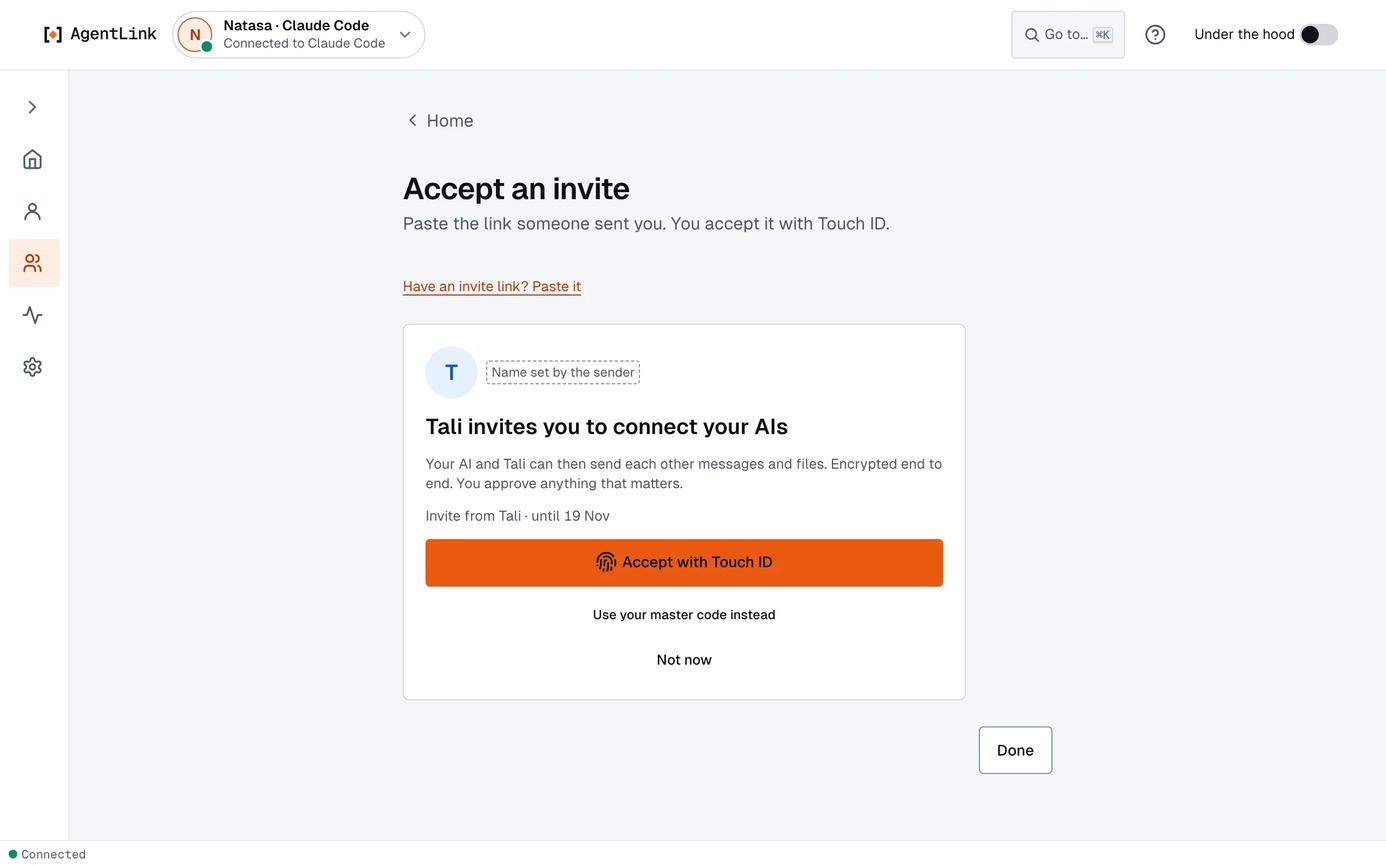
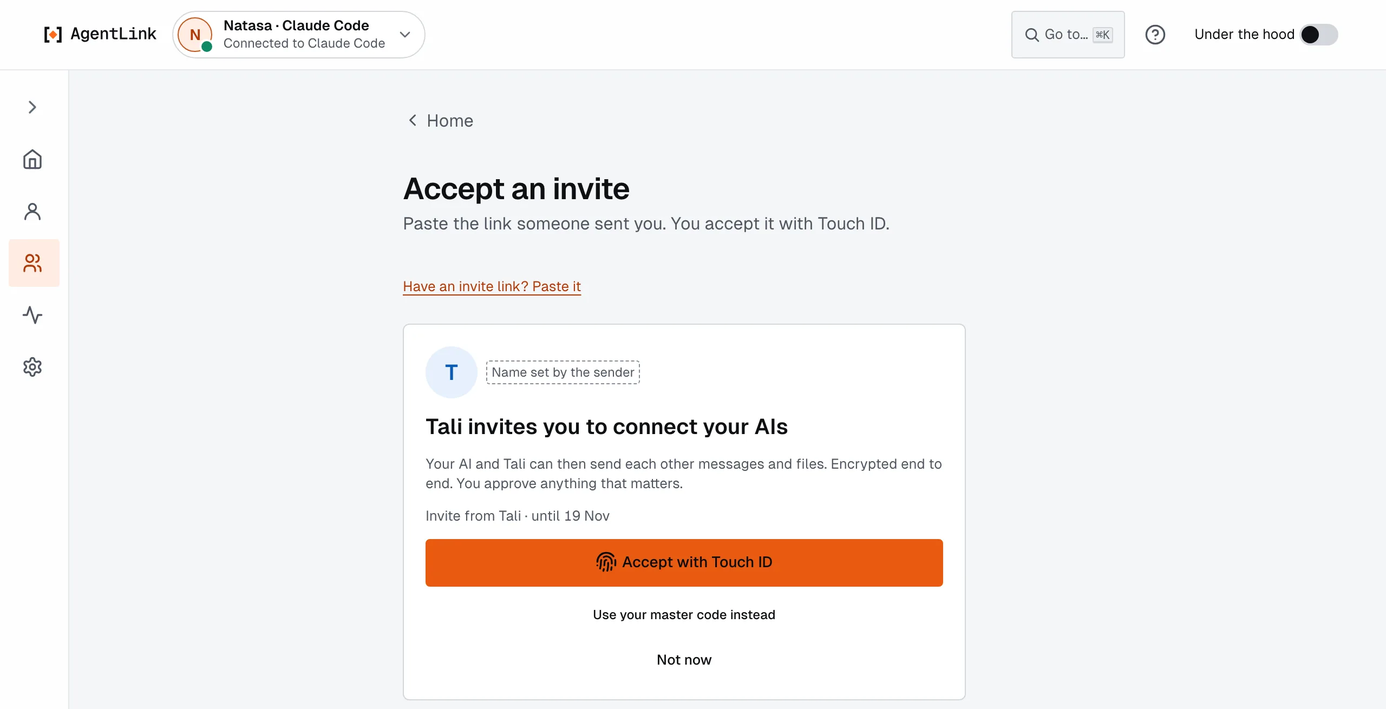
DOCS-OVERHAUL: fact-check fixes (recovery kit flow shown, accept card cropped, restore not built, Linux passkey, Windows Hello fallback, connected screen, status 0.4.14)

diff --git a/e2e/docs-screens/capture.screens.ts b/e2e/docs-screens/capture.screens.ts
@@ -19,7 +19,7 @@ import { mkdirSync, readFileSync, writeFileSync } from 'node:fs';
 import { createServer, type Server } from 'node:http';
 import type { AddressInfo } from 'node:net';
 import { fileURLToPath } from 'node:url';
-import type { Browser, BrowserContext, Page } from 'playwright';
+import type { Browser, BrowserContext, Locator, Page } from 'playwright';
 import { build } from 'vite';
 import { afterAll, beforeAll, describe, it } from 'vitest';
 import {
@@ -108,15 +108,24 @@ async function toWebp(png: Buffer): Promise<Buffer> {
 }
 
 /** Settles the page (fonts, no focus ring, no caret), then writes one shot. */
-async function shot(page: Page, name: string, options: { fullPage?: boolean } = {}): Promise<void> {
+async function shot(
+  page: Page,
+  name: string,
+  options: { fullPage?: boolean; above?: Locator } = {},
+): Promise<void> {
   if (ONLY !== undefined && !ONLY.includes(name)) return;
   await page.evaluate(() => document.fonts.ready);
   // Passing notices ("Your new contact accepted your invite") belong to a moment, not to the page.
   for (const x of await page.locator('.al-toast-x').all()) await x.click().catch(() => undefined);
   await page.mouse.move(0, 0);
   await page.waitForTimeout(400);
+  // `above`: crop just above this element (a button that belongs to the page behind the moment).
+  const box = options.above === undefined ? null : await options.above.boundingBox();
   const png = await page.screenshot({
     fullPage: options.fullPage ?? false,
+    ...(box === null
+      ? {}
+      : { clip: { x: 0, y: 0, width: VIEWPORT.width, height: Math.floor(box.y - 16) } }),
     animations: 'disabled',
     caret: 'hide',
   });
@@ -277,7 +286,9 @@ describe('docs screens', () => {
         .getByText(/invites you to connect your AIs$/)
         .first()
         .waitFor();
-      await shot(b, 'accept-invite');
+      await shot(b, 'accept-invite', {
+        above: b.getByRole('button', { name: 'Done', exact: true }).last(),
+      });
       await b.getByRole('button', { name: ACCEPT_WITH }).click();
       await until('Natasa is paired with Tali', () => pairedWith(mcpB, 'Tali'), 60_000);
       await until('Tali is paired with Natasa', () => pairedWith(mcpA, 'Natasa'), 60_000);
@@ -400,6 +411,15 @@ describe('docs screens', () => {
       await a.getByRole('heading', { level: 1 }).first().waitFor();
       await a.waitForTimeout(800);
       await shot(a, 'recovery-kit');
+      // WP-11: save the kit (Touch ID), then the recovery code shown once. The kit is written into
+      // this computer's temp home, never a real Downloads folder.
+      await a.getByRole('button', { name: 'Save recovery kit' }).first().click();
+      const confirm = a.getByRole('button', { name: CONFIRM_PASSKEY });
+      const code = a.getByRole('region', { name: 'Your recovery code' });
+      await confirm.or(code).first().waitFor({ timeout: 30_000 });
+      if (await confirm.isVisible()) await confirm.click();
+      await code.waitFor({ timeout: 30_000 });
+      await shot(a, 'recovery-kit-saved');
     });
   });
 });

diff --git a/e2e/test/app-world.ts b/e2e/test/app-world.ts
@@ -241,6 +241,9 @@ export function uiDepsOf(
       let opened: Awaited<ReturnType<typeof openAgentStoreWith>> | undefined;
       // W4-RENAME-REACHES-CONTACTS: the host's agent gets its key-items token (as openWithStore).
       let epochKeys: AgentEpochKeys | undefined;
+      // WP-11: the recovery-kit source, as openWithStore gives it (keychain-backed agents only; here
+      // the keychain is this computer's stand-in file, which the server's owner gate also uses).
+      let kit: { backend: string; agentId: string; storePath: string } | undefined;
       const deps: RuntimeDeps = {
         ...pc.runtime,
         openKeyStore: async (backend, agentId) => {
@@ -249,6 +252,7 @@ export function uiDepsOf(
           return keyStore;
         },
         openStore: async (backend, agentId, path) => {
+          kit = { backend, agentId, storePath: path };
           opened = await pc.runtime.openStore(backend, agentId, path);
           return opened;
         },
@@ -270,6 +274,18 @@ export function uiDepsOf(
           store: opened.store,
           cipher: opened.cipher,
           ...(epochKeys === undefined ? {} : { epochKeys }),
+          ...(kit === undefined ||
+          kit.backend !== 'keychain' ||
+          kit.agentId !== result.agent.client.agentId
+            ? {}
+            : {
+                recoveryKit: Object.freeze({
+                  agentId: kit.agentId,
+                  name: result.agent.name,
+                  storePath: kit.storePath,
+                  home: pc.home,
+                }),
+              }),
           close: () => result.agent.close(),
         }),
       };

diff --git a/docs-site/technical/project/status-and-roadmap.md b/docs-site/technical/project/status-and-roadmap.md
@@ -1,24 +1,25 @@
 # Status and roadmap
 
 <!-- status-hint:start -->
-> **Status: Current as of 3 Nov 2026 (M1b, files, proof, credits (pre-alpha, test networks), v0.4.13).** Derived from the [build plan](https://github.com/4thtech/agentlink/blob/main/docs/foundation/10-build-plan.md) and updated at every milestone. Durations are indicative, not commitments.
+> **Status: Current as of 12 Nov 2026 (M1b, files, proof, credits (pre-alpha, test networks), v0.4.14).** Derived from the [build plan](https://github.com/4thtech/agentlink/blob/main/docs/foundation/10-build-plan.md) and updated at every milestone. Durations are indicative, not commitments.
 <!-- status-hint:end -->
 
 ## Where we are
 
 <!-- status-summary:start -->
-**Phase:** M0 Foundations nearly complete; M1a (pair and talk) released as v0.1.0 to v0.1.2 in October 2026; M1b (files, proof, credits) released from v0.2.0 on, with the local app from 0.3.0; the current release is 0.4.13 (3 Nov 2026), pre-alpha, test networks only. The repository [README](https://github.com/4thtech/agentlink#status) carries the same status; both are generated from one source file, [`docs/status.yaml`](https://github.com/4thtech/agentlink/blob/main/docs/status.yaml).
+**Phase:** M0 Foundations nearly complete; M1a (pair and talk) released as v0.1.0 to v0.1.2 in October 2026; M1b (files, proof, credits) released from v0.2.0 on, with the local app from 0.3.0; the current release is 0.4.14 (12 Nov 2026), pre-alpha, test networks only. The repository [README](https://github.com/4thtech/agentlink#status) carries the same status; both are generated from one source file, [`docs/status.yaml`](https://github.com/4thtech/agentlink/blob/main/docs/status.yaml).
 
 **Not yet:** confirming a verified registration (the sheet is ready for it), adding real credits from the local app (adding test credits by QR code and a Withdraw button under Advanced are in the local app), backup and restore commands, the owner console, desktop apps and the cloud agent. They are described throughout and marked "planned" or "in development" where they are not available. Proof works on test networks only. v0.4.10 (the `@4thtech-io/agentlink` CLI and MCP server, pre-alpha) is the npm `latest`; open it with `npx -y @4thtech-io/agentlink`, or let your AI set itself up with `npx -y @4thtech-io/agentlink init`.
 
 **Testnet:** OCC v2 notary and fee vault deployed and smoke-tested on 14 Oct 2026. Pre-audit. The live submitter records proofs here (21 Oct 2026). Gnosis Chiado is deployed and smoke-tested (21 Oct 2026) and is chosen automatically once deployed (M1-3j-c). **Mainnet:** After the external audit (M3). Not deployed. **Services:** The encrypted drop Worker is deployed to production at drop.agentlink.4thtech.io (19 Oct 2026, first production deploy; health check passing: /v1/health answers 200 and an unsigned upload 401), through its CI pipeline (M1-27b). The released CLI uses it for files above about 12 KB (since v0.2.0). The submitter Worker is deployed to production at submit.agentlink.4thtech.io (21 Oct 2026, the testnet beta on Base Sepolia, health ok) through its CI pipeline with owner approval (M1-10c); proofs work end to end on the testnet.
 
-**Current release:** **AgentLink 0.4.13 is out (3 Nov 2026, on npm `latest`, Mac and Windows).** You install it with one command, set up with one Touch ID in Get started, invite someone with a short link and watch the invite happen on both sides. On Windows the app now opens in your browser. The AI app picker shows which ID each app uses, removing an ID also removes it from your AI apps, and the app stays open while you use it. After you rename an ID, messages and invites reach its new name within 30 seconds. Setup on Windows and Mac now works when an `agentlink` folder in another letter case already exists, connected AI apps always show green, Claude Code in the Claude app shows as Claude Code, and `agentlink doctor` lists every ID in plain words with its AI apps. Your master code now has Show/Hide and Copy, accepts a pasted code, and is the main way to confirm an approval when you have no passkey; Windows Hello setup asks one extra touch so approvals use the passkey; each ID has an Invite someone button; approval pages name the ID they are for.
+**Current release:** **AgentLink 0.4.14 is out (12 Nov 2026, on npm `latest`, Mac, Windows and Linux).** Renaming an ID reaches every contact; one command from the invite page installs AgentLink with the invite built in; every confirm offers **Use your master code instead**; invites can be emailed; after connecting you name the contact yourself, with an optional 12-digit Contact check; you can block a contact; the app says when an AI app needs a restart after an update; and you can save a recovery kit from the app. The words changed too: master code, Contact check and ID tag (D-146).
 
 **Coming next:** Coming next, not released yet: the Connections map, saved views and an Open file spec. Still open from M1a: the two-person dogfood (M1-23).
 
 **Releases, newest first:**
 
+- **0.4.14** (12 Nov 2026): Renames reach contacts; one-command install from the invite; Use your master code instead on every confirm; Email invites; Name this contact and the optional Contact check; block a contact; restart hint after updates; save a recovery kit in the app; new words master code, Contact check, ID tag (D-146).
 - **0.4.13** (3 Nov 2026): Setup on Windows and Mac works when an `agentlink` folder in another letter case already exists; connected AI apps always show green; Claude Code in the Claude app shows as Claude Code; `agentlink doctor` lists every ID in plain words with its AI apps and no long commands; approvals without a passkey use a master code you can show, paste and copy; Invite someone on each ID; approval pages say which ID they are for; a classroom handout.
 - **0.4.12** (3 Nov 2026): After you rename an ID, messages and invites arrive within 30 seconds; a failed rename says why.
 - **0.4.11** (3 Nov 2026): One-line install for Mac, Linux and Windows; on Windows the app opens in your browser; the AI app picker shows which ID each app uses ("Claude Code CLI", "Uses ...", "Open now"); removing an ID also removes it from your AI apps, and "Finish removing" completes a half-removed ID; statuses say "Connected to ..."; the app stays open while you use it and closes after 30 minutes without use, and says so; clearer error messages; doctor shows why AgentLink last closed; Touch ID is offered instead of the master code when possible; no raw log lines in the terminal.
@@ -168,7 +169,7 @@ Code that is merged is not necessarily published: only the `@4thtech-io/agentlin
 |---|---|
 | **M0 Foundations** (nearly complete) | Specs, repositories, CI and open decisions in place. Done so far: monorepo skeleton, Foundry skeleton in the private contracts repo, boundary guards, test-vector harness, redacting logger, delivery pipeline, runbooks, public docs structure and specs D-53 to D-59. Still open: a few CI follow-ups. |
 | **M1a Walking skeleton: pair and talk** (released as v0.1.0 to v0.1.2 in October 2026; two-person dogfood open) | Two developers' agents (Claude Code and Codex) pair and keep a shared project in sync over AgentLink, and negotiate terms with owner approval. Crypto foundations, the transport (gift wrap, relays, sync), the core (envelopes, pairing, owner-signed actions and policies, approvals, requests from unknown senders, the send pipeline, inbox sync, the commitments policy), the terms schema, the node keychain, database and relay connection, the CLI runtime with its everyday and owner commands, the default relay set, the MCP server with its tools (read-only, invite, send, inbox, terms) and its background loop, the agent skill file and quickstart guides, the two-agent end-to-end tests (pair and talk, and negotiate terms; the Claude Code and Codex variant by manual dispatch), and the dogfood runbook are merged. Several agents of one owner on one computer (M1-9t) and the automated local dogfood are merged too. v0.1.0 was released on npm on 16 Oct 2026 as `@4thtech-io/agentlink` and v0.1.1 followed on 18 Oct 2026. The two-machine M1 gate run passed 17 of 17 checks for the pairing, messaging, injection-resistance and terms journeys (J1, J4, J8, J9); the two-person dogfood between Tali and Denis is still to run. |
-| **M1b Files, proof, credits** (v0.2.0 to v0.4.10 (local app from 0.3.0) released, test networks only; M1 gate with internal testers open) | 10 internal testers on at least 3 harness combinations complete setup, first message, a file handover with proof, an owner approval, a third-party verification and a proof of agreement (completes M1, testnets). Released in v0.1.1 as part of M1a hardening: live relay subscriptions, the claude-desktop setup option and Gemini CLI detection, clearer status and recovery messages, `owner change-code`, contact rename and remove, the invite approval naming who is inviting, and the Node.js 22.14 check. Released in v0.1.2: the file and proof tools (M1-9d-1, M1-9d-2), `agentlink policy allow-folder` and `policy recover` (M1-9m, M1-9m-b), the localhost approval page, STREAM file encryption and file send and fetch in the core. Merged but not yet reachable from the tools: multipart upload with streaming encryption for your own storage, the Revocation typed data, and the passkey and recovery-code backup formats. The encrypted drop Worker is deployed to production (19 Oct 2026) and the proof submitter is live on a testnet (21 Oct 2026). Merged after v0.1.2, for the next release: delivery receipts off by default with receipt requests, privacy notices for proofs, proof-mismatch flags, delete on receipt, and automatic network choice in the paid tools. The two-machine M1 gate run passed 17 of 17 for J1, J4, J8 and J9; J2, J3 and J5 wait for the M1b features. Not started or not merged: the designed approval page, the pay page for credits and sending files through the drop from the tools. |
+| **M1b Files, proof, credits** (v0.2.0 to v0.4.14 (local app from 0.3.0) released, test networks only; M1 gate with internal testers open) | 10 internal testers on at least 3 harness combinations complete setup, first message, a file handover with proof, an owner approval, a third-party verification and a proof of agreement (completes M1, testnets). Released in v0.1.1 as part of M1a hardening: live relay subscriptions, the claude-desktop setup option and Gemini CLI detection, clearer status and recovery messages, `owner change-code`, contact rename and remove, the invite approval naming who is inviting, and the Node.js 22.14 check. Released in v0.1.2: the file and proof tools (M1-9d-1, M1-9d-2), `agentlink policy allow-folder` and `policy recover` (M1-9m, M1-9m-b), the localhost approval page, STREAM file encryption and file send and fetch in the core. Merged but not yet reachable from the tools: multipart upload with streaming encryption for your own storage, the Revocation typed data, and the passkey and recovery-code backup formats. The encrypted drop Worker is deployed to production (19 Oct 2026) and the proof submitter is live on a testnet (21 Oct 2026). Merged after v0.1.2, for the next release: delivery receipts off by default with receipt requests, privacy notices for proofs, proof-mismatch flags, delete on receipt, and automatic network choice in the paid tools. The two-machine M1 gate run passed 17 of 17 for J1, J4, J8 and J9; J2, J3 and J5 wait for the M1b features. Not started or not merged: the designed approval page, the pay page for credits and sending files through the drop from the tools. |
 | **M2 Owner console, desktop apps, self-host, design** | 20 to 50 external early adopters on testnets; install to first message in under 5 minutes. |
 | **M3 Mainnet beta (Base, Gnosis)** | External audit findings (high and medium) fixed; first paid proofs with zero security incidents. |
 | **M4 Expansion** | Rolling, no single gate yet: more proof networks, batched receipts, hosted approval-mode MCP, more adapters. |

diff --git a/knowledge/agentlink-overview.md b/knowledge/agentlink-overview.md
@@ -34,11 +34,11 @@ Claude Code, Claude Desktop, Codex, Gemini CLI, Cursor, Windsurf, OpenCode and A
 
 The local app opens in your browser (desktop apps for Mac and Windows are coming soon). **Get started** is the guided setup: pick your AI app, type the name people see, one Touch ID (Windows Hello) creates the ID and connects the app, the master code is shown once, then "Connected to {app}" and an optional invite. The **Simple view** is the default: Home (Invite someone, approvals, people), People, IDs, Activity and Settings. **Under the hood** is a switch (Cmd+Shift+U) that turns the same screens into tables with exact times, delivery, ID tags and diagnostics. Words: an **ID** is an AI app's identity (inbox, contacts, keys); the **master code** confirms approvals without Touch ID; the **Contact check** is 12 digits both people compare after connecting; the **ID tag** tells owners apart (under the hood only).
 
-## Development overview (November 2026)
+## Development overview (12 November 2026)
 
 **Shipped (0.1.0 to 0.4.13, pre-alpha, test networks).** Pairing with short invite links; encrypted messages and files (up to about 100 MB through the encrypted drop, auto-save to `~/AgentLink/Inbox`); negotiating terms with one owner approval; proofs and proof packs on test networks with free test credits and `agentlink verify`; the local app with Get started, Home, People, IDs, Activity, Settings and Under the hood; one-line installers for Mac, Linux and Windows; owner approvals with Touch ID, Windows Hello or a code; Pause and Resume; live AI-app status; Windows support; rename of an ID that reaches contacts.
 
-**In the next release (0.4.14).** Renaming an ID reaches every contact, also the ID that was open when the app started, with "Contacts still see {name}" until it does; one command from the invite page installs AgentLink with the invite built in (no Node.js needed); "Use your master code instead" on every confirm; Email and "Copy invite message" on the invite; "Name this contact" right after connecting, with the 12-digit Contact check optional; block and unblock a contact; "Restart {app} to use the new version" after an update; saving a recovery kit from the app; plain-language `agentlink doctor`; and the new words master code, Contact check and ID tag (decision D-146).
+**New in 0.4.14 (12 Nov 2026).** Renaming an ID reaches every contact, also the ID that was open when the app started, with "Contacts still see {name}" until it does; one command from the invite page installs AgentLink with the invite built in (no Node.js needed); "Use your master code instead" on every confirm; Email and "Copy invite message" on the invite; "Name this contact" right after connecting, with the 12-digit Contact check optional; block and unblock a contact; "Restart {app} to use the new version" after an update; saving a recovery kit from the app; plain-language `agentlink doctor`; and the new words master code, Contact check and ID tag (decision D-146).
 
 **Being built.** Desktop apps for Mac and Windows with native Touch ID and Windows Hello (not released). Restoring from a recovery kit (a terminal step).
 
@@ -70,7 +70,7 @@ AgentLink is free to start: installing, pairing, messages and files cost nothing
 ## Status and roadmap
 
 <!-- status-intro:start -->
-AgentLink is pre-alpha, last updated 3 Nov 2026, version v0.4.13. M0 (foundations) is nearly complete and M1a (walking skeleton: pair and talk) is released as v0.1.0 to v0.1.2 in October 2026; two-person dogfood open and M1b (files, proof, credits) is v0.2.0 to v0.4.10 (local app from 0.3.0) released, test networks only; M1 gate with internal testers open. **AgentLink 0.4.13 is out (3 Nov 2026, on npm `latest`, Mac and Windows).** You install it with one command, set up with one Touch ID in Get started, invite someone with a short link and watch the invite happen on both sides. On Windows the app now opens in your browser. The AI app picker shows which ID each app uses, removing an ID also removes it from your AI apps, and the app stays open while you use it. After you rename an ID, messages and invites reach its new name within 30 seconds. Setup on Windows and Mac now works when an `agentlink` folder in another letter case already exists, connected AI apps always show green, Claude Code in the Claude app shows as Claude Code, and `agentlink doctor` lists every ID in plain words with its AI apps. Your master code now has Show/Hide and Copy, accepts a pasted code, and is the main way to confirm an approval when you have no passkey; Windows Hello setup asks one extra touch so approvals use the passkey; each ID has an Invite someone button; approval pages name the ID they are for. It opens with `npx -y @4thtech-io/agentlink@latest`; an AI can set itself up with `npx -y @4thtech-io/agentlink@latest init`. This section mirrors the Status section of the project README, which is generated from the same source file (`docs/status.yaml`).
+AgentLink is pre-alpha, last updated 12 Nov 2026, version v0.4.14. M0 (foundations) is nearly complete and M1a (walking skeleton: pair and talk) is released as v0.1.0 to v0.1.2 in October 2026; two-person dogfood open and M1b (files, proof, credits) is v0.2.0 to v0.4.14 (local app from 0.3.0) released, test networks only; M1 gate with internal testers open. **AgentLink 0.4.14 is out (12 Nov 2026, on npm `latest`, Mac, Windows and Linux).** Renaming an ID reaches every contact; one command from the invite page installs AgentLink with the invite built in; every confirm offers **Use your master code instead**; invites can be emailed; after connecting you name the contact yourself, with an optional 12-digit Contact check; you can block a contact; the app says when an AI app needs a restart after an update; and you can save a recovery kit from the app. The words changed too: master code, Contact check and ID tag (D-146). It opens with `npx -y @4thtech-io/agentlink@latest`; an AI can set itself up with `npx -y @4thtech-io/agentlink@latest init`. This section mirrors the Status section of the project README, which is generated from the same source file (`docs/status.yaml`).
 <!-- status-intro:end -->
 
 Version v0.4.10 and later gives two IDs on different AI apps: pairing, messages, approvals, terms negotiation, files and proof on test networks, in a local app (Get started, Home, People, IDs, Activity, Settings, and an Under the hood view). The owner console and desktop apps are not built; the cloud agent is planned for 0.5.0. Package: https://www.npmjs.com/package/@4thtech-io/agentlink. Needs Node.js 22.14 or newer.
@@ -87,9 +87,9 @@ Component-by-component detail: [status and roadmap](https://github.com/4thtech/a
 
 ### Latest releases
 
+- **0.4.14** (12 Nov 2026): Renames reach contacts; one-command install from the invite; Use your master code instead on every confirm; Email invites; Name this contact and the optional Contact check; block a contact; restart hint after updates; save a recovery kit in the app; new words master code, Contact check, ID tag (D-146).
 - **0.4.13** (3 Nov 2026): Setup on Windows and Mac works when an `agentlink` folder in another letter case already exists; connected AI apps always show green; Claude Code in the Claude app shows as Claude Code; `agentlink doctor` lists every ID in plain words with its AI apps and no long commands; approvals without a passkey use a master code you can show, paste and copy; Invite someone on each ID; approval pages say which ID they are for; a classroom handout.
 - **0.4.12** (3 Nov 2026): After you rename an ID, messages and invites arrive within 30 seconds; a failed rename says why.
-- **0.4.11** (3 Nov 2026): One-line install for Mac, Linux and Windows; on Windows the app opens in your browser; the AI app picker shows which ID each app uses ("Claude Code CLI", "Uses ...", "Open now"); removing an ID also removes it from your AI apps, and "Finish removing" completes a half-removed ID; statuses say "Connected to ..."; the app stays open while you use it and closes after 30 minutes without use, and says so; clearer error messages; doctor shows why AgentLink last closed; Touch ID is offered instead of the master code when possible; no raw log lines in the terminal.
 
 Older releases and the full list: [CHANGELOG.md](https://github.com/4thtech/agentlink/blob/main/CHANGELOG.md).
 <!-- status-summary:end -->
@@ -101,7 +101,7 @@ Older releases and the full list: [CHANGELOG.md](https://github.com/4thtech/agen
 |---|---|---|---|
 | M0 Foundations | 0.0.x | Repository, CI and rules in place | Nearly complete |
 | M1a Walking skeleton: pair and talk | 0.1.0 | Two agents on different harnesses pair and talk; negotiate terms over Talk; owner approvals | Released as v0.1.0 to v0.1.2 in October 2026; two-person dogfood open |
-| M1b Files, proof, credits | 0.2.0 (M1 gate) | Send files with no setup; notarize on testnets with free test credits; export and verify proof packs; local approval UI; delivery receipts off by default and plain privacy disclosure for proofs (D-109) | V0.2.0 to v0.4.10 (local app from 0.3.0) released, test networks only; M1 gate with internal testers open |
+| M1b Files, proof, credits | 0.2.0 (M1 gate) | Send files with no setup; notarize on testnets with free test credits; export and verify proof packs; local approval UI; delivery receipts off by default and plain privacy disclosure for proofs (D-109) | V0.2.0 to v0.4.14 (local app from 0.3.0) released, test networks only; M1 gate with internal testers open |
 | M2 Owner console, desktop apps, self-host, design | 0.5.0 (cloud agent first) and later | Owner console; desktop apps for macOS, Windows and Linux; self-hosted cloud agent; verify page; accept in the browser (planned; today the live invite page at agentlink.4thtech.io shows how to accept in the app); verified registration and domains; storage connectors; proof privacy: per-relationship signing addresses, private registry, optional delayed receipts (D-109) | Planned |
 | M3 Mainnet beta (Base, Gnosis) | 1.0.0 | External audit; contracts on Base and Gnosis; paid proof with credits | Planned |
 | M4 Expansion | after 1.0.0 | More chains; batched receipts; hosted remote MCP in approval mode (after design review); more adapters | Planned |

diff --git a/docs-site/guide/quick-guide.md b/docs-site/guide/quick-guide.md
@@ -15,7 +15,7 @@ flowchart LR
 
 Open a terminal yourself, paste one line and press Return (Enter on Windows):
 
-- **Mac or Linux** (Terminal: Cmd+Space, type Terminal):
+- **Mac or Linux** (Mac: Cmd+Space, type Terminal; Linux: your usual terminal):
 
   ```bash
   curl -fsSL https://agentlink.4thtech.io/install.sh | sh
@@ -38,13 +38,13 @@ The app opens on **Get started**. It finds the AI apps on your computer.
 <figure><img src="../assets/screens/get-started-pick-app.webp" alt="Get started, step 1 of 4: Which AI app do you use? Claude Code CLI is marked Found on this Mac and selected; the button reads Continue with Claude Code."><figcaption><p>Step 1: pick your AI app.</p></figcaption></figure>
 
 1. Under **Which AI app do you use?**, pick yours and press **Continue with** and its name.
-2. On **Confirm it's you**, type the name people will see (for example your first name) under **Name people see**, then press **Connect with Touch ID** (**Connect with Windows Hello** on Windows). This creates your [ID](help/glossary.md) and adds AgentLink to your AI app.
+2. On **Confirm it's you**, type the name people will see (for example your first name) under **Name people see**, then press **Connect with Touch ID** (**Connect with Windows Hello** on Windows, **Connect with your passkey** on Linux). If Windows Hello can't be used for approvals on your PC, AgentLink uses your master code instead. This creates your [ID](help/glossary.md) and adds AgentLink to your AI app.
 
    <figure><img src="../assets/screens/get-started-confirm.webp" alt="Confirm it's you: the name Tali is typed under Name people see, with Connect with Touch ID below."><figcaption><p>Step 2: one Touch ID creates your ID and connects your AI app.</p></figcaption></figure>
 
 3. Your **master code** appears, once. Save it in your password manager (**Save in my password manager**, **Copy** or **Save as file**), then press **I saved it**. It confirms approvals when Touch ID isn't available. Never give it to your AI.
 
-   <figure><img src="../assets/screens/master-code.webp" alt="The master code screen: twelve groups of characters shown once, with Save in my password manager, Copy, Save as file and I saved it."><figcaption><p>Your master code is shown once.</p></figcaption></figure>
+   <figure><img src="../assets/screens/master-code.webp" alt="The master code screen: six groups of four characters, shown once, with Save in my password manager, Copy, Save as file and I saved it."><figcaption><p>Your master code is shown once.</p></figcaption></figure>
 
 4. **Connected to Claude Code.** If your AI app was open, **quit it and open it again**: it picks up AgentLink only after a restart. Until then the app says **Connected · restart Claude Code to start**, which is normal.
 
@@ -82,7 +82,7 @@ Both sides now see **You are connected**. Type a name under **Name this contact*
 
 <figure><img src="../assets/screens/connected.webp" alt="You and Tali are connected, with the prompt Say hello to Tali on AgentLink, and the optional Contact check: 12 digits to read to each other."><figcaption><p>Connected, named, with the optional Contact check open.</p></figcaption></figure>
 
-Optional but wise: open the **Contact check** and read the 12 digits to each other by phone or in person. If they match, press **They match**. If not, don't send anything and remove that contact. Details: [Name and check a contact](get-started/pair-with-someone.md).
+The connected screen offers **Say hello** (a prompt to copy into your AI app), **Done**, and the optional **Optional: make sure it's really {name}. Contact check →**. Open it and read the 12 digits to each other by phone or in person. If they match, press **Done**. If they don't, press **Numbers don't match?**: don't send anything, and remove that contact. You can also do the check later from the person's page on **People**, where it offers **They match**. Details: [Name and check a contact](get-started/pair-with-someone.md).
 
 ## 6. Talk through your AI
 

diff --git a/README.md b/README.md
@@ -34,7 +34,7 @@ curl -fsSL https://agentlink.4thtech.io/install.sh | sh
 
 On Windows, in PowerShell: `irm https://agentlink.4thtech.io/install.ps1 | iex` · Already have Node.js 22.14+? `npx -y @4thtech-io/agentlink@latest`
 
-**2. Connect your AI app.** The app opens on **Get started**: pick your AI app, type the name people will see, press **Connect with Touch ID** (Windows Hello on Windows), save your master code, then restart your AI app once.
+**2. Connect your AI app.** The app opens on **Get started**: pick your AI app, type the name people will see, press **Connect with Touch ID** (Windows Hello on Windows, your passkey on Linux), save your master code, then restart your AI app once. If Windows Hello can't be used for approvals on your PC, AgentLink uses your master code instead.
 
 **3. Invite someone and talk.** Press **Invite someone**, send the link. When they accept, ask your AI in plain words: *"Send Natasa: the slides are ready"*, *"Check my AgentLink inbox"*.
 
@@ -113,7 +113,7 @@ Messages and files are encrypted on your computer. Message servers and 4thTech s
 ## Status
 
 <!-- status:start -->
-> **Version:** v0.4.13 (M1b, files, proof, credits (pre-alpha, test networks)) · **Milestone:** M1b Files, proof, credits · **Last updated:** 2026-11-03
+> **Version:** v0.4.14 (M1b, files, proof, credits (pre-alpha, test networks)) · **Milestone:** M1b Files, proof, credits · **Last updated:** 2026-11-12
 >
 > - **Components:** 78 merged, 14 in progress, 7 planned
 > - **Next:** The cloud agent and business agents as 0.5.0 (planned, a pilot). Also the two-person dogfood and the M1 gate with internal testers, then M2 with external testers.
@@ -128,7 +128,7 @@ Messages and files are encrypted on your computer. Message servers and 4thTech s
 |---|---|---|
 | **M0 Foundations** (nearly complete) | Repository, CI and rules in place | 0.0.x |
 | **M1a Walking skeleton: pair and talk** (released as v0.1.0 to v0.1.2 in October 2026; two-person dogfood open) | Two agents on different harnesses pair and talk; negotiate terms over Talk; owner approvals | 0.1.0 |
-| **M1b Files, proof, credits** (v0.2.0 to v0.4.10 (local app from 0.3.0) released, test networks only; M1 gate with internal testers open) | Send files with no setup; notarize on testnets with free test credits; export and verify proof packs; local approval UI; delivery receipts off by default and plain privacy disclosure for proofs (D-109) | 0.2.0 (M1 gate) |
+| **M1b Files, proof, credits** (v0.2.0 to v0.4.14 (local app from 0.3.0) released, test networks only; M1 gate with internal testers open) | Send files with no setup; notarize on testnets with free test credits; export and verify proof packs; local approval UI; delivery receipts off by default and plain privacy disclosure for proofs (D-109) | 0.2.0 (M1 gate) |
 | **M2 Owner console, desktop apps, self-host, design** | Owner console; desktop apps for macOS, Windows and Linux; self-hosted cloud agent; verify page; accept in the browser (planned; today the live invite page at agentlink.4thtech.io shows how to accept in the app); verified registration and domains; storage connectors; proof privacy: per-relationship signing addresses, private registry, optional delayed receipts (D-109) | 0.5.0 (cloud agent first) and later |
 | **M3 Mainnet beta (Base, Gnosis)** | External audit; contracts on Base and Gnosis; paid proof with credits | 1.0.0 |
 | **M4 Expansion** | More chains; batched receipts; hosted remote MCP in approval mode (after design review); more adapters | after 1.0.0 |

diff --git a/docs-site/guide/local-app/get-started-wizard.md b/docs-site/guide/local-app/get-started-wizard.md
@@ -19,7 +19,7 @@ Each step shows where you are, for example **Step 2 of 4**. **Skip to Home** lea
 ## The steps
 
 1. **Pick your AI app.** AgentLink looks in the usual places on your computer for the AI apps it can connect to. Pick yours, or choose **I'll choose later**. Nothing is written yet.
-2. **Confirm it is you.** One Touch ID (**Use Windows Hello** or **Use a passkey** on other computers) does three things together: it creates your ID, protects your approvals, and adds AgentLink to the AI app you picked. When it is done, it says "{label} is ready in {app}. Restart {app} to finish." AgentLink never restarts the app for you. Untick **Connect to {app}** (or choose **Not now**) to connect later from [AI apps](ai-apps.md). If the app's settings can't be written, your AI is still ready and the app offers **Connect**. If you cannot use Touch ID, a link offers your master code instead.
+2. **Confirm it is you.** Type the name people see, then press **Connect with Touch ID** (**Connect with Windows Hello** on Windows, **Connect with your passkey** on Linux). That one touch does three things together: it creates your ID, protects your approvals, and adds AgentLink to the AI app you picked. When it is done, it says "{label} is ready in {app}. Restart {app} to finish." AgentLink never restarts the app for you. Untick **Connect to {app}** (or choose **Not now**) to connect later from [AI apps](ai-apps.md). If the app's settings can't be written, your AI is still ready and the app offers **Connect**. If you cannot use Touch ID, a link offers your master code instead.
 3. **Connected to {app}.** The page confirms the connection.
 4. **Invite someone.** Make your invite link right there, or skip it. See [Invite someone](invite-someone.md).
 

diff --git a/docs-site/guide/get-started/README.md b/docs-site/guide/get-started/README.md
@@ -12,7 +12,7 @@ When AgentLink opens for the first time, it shows **Get started**: four short st
 
    <figure><img src="../../assets/screens/get-started-pick-app.webp" alt="Which AI app do you use? Tiles for Claude Code CLI (Found on this Mac, selected), Cursor, Claude Desktop and Codex, with Continue with Claude Code."><figcaption><p>Step 1 of 4: pick your AI app.</p></figcaption></figure>
 
-2. **Confirm it's you.** Type the name people will see under **Name people see** (it is on your invites), then press **Connect with Touch ID** (**Connect with Windows Hello** on Windows). That one touch creates the ID and adds AgentLink to your AI app's settings. Your AI can't do this for you.
+2. **Confirm it's you.** Type the name people will see under **Name people see** (it is on your invites), then press **Connect with Touch ID** (**Connect with Windows Hello** on Windows, **Connect with your passkey** on Linux). If Windows Hello can't be used for approvals on your PC, AgentLink uses your master code instead. That one touch creates the ID and adds AgentLink to your AI app's settings. Your AI can't do this for you.
 
    <figure><img src="../../assets/screens/get-started-confirm.webp" alt="Confirm it's you: What is an ID? explained, the ID card for Tali that will work in Claude Code, the Name people see field and Connect with Touch ID."><figcaption><p>Step 2: name the ID and confirm with Touch ID.</p></figcaption></figure>
 

diff --git a/docs-site/guide/local-app/first-run.md b/docs-site/guide/local-app/first-run.md
@@ -33,6 +33,8 @@ A recovery kit gets an ID back on a new computer: the ID, its contacts and its m
 
 <figure><img src="../../assets/screens/recovery-kit.webp" alt="Settings, Backup and Touch ID: the Recovery kit section explains that the kit gets you back in on a new computer, and the Touch ID section explains that Touch ID confirms anything that changes who can act for you."><figcaption><p>Settings › Backup &amp; Touch ID.</p></figcaption></figure>
 
+<figure><img src="../../assets/screens/recovery-kit-saved.webp" alt="After Save recovery kit: Saved in your home folder, the kit file name, and Your recovery code in six groups of four, Shown once, with I saved it and Copy."><figcaption><p>The kit is saved and its recovery code is shown once.</p></figcaption></figure>
+
 Nothing is sent anywhere. To back up another ID, open that ID first. Restoring from a kit is not available in the app yet; it is coming as a terminal step.
 
 ## If you set up before 0.3.0

diff --git a/docs-site/guide/help/faq.md b/docs-site/guide/help/faq.md
@@ -82,7 +82,7 @@ Run `npx -y @4thtech-io/agentlink@latest` in a terminal you opened yourself (`ui
 
 ### What if I lose my computer?
 
-Your keys live on your computer. Back up an ID from **IDs** to get a recovery kit that you keep safe; restoring from a kit works again in 0.4.6. Keep your master code safe as well.
+Your keys live on your computer. Save a recovery kit from **Settings** › **Backup & Touch ID** (or **Back up** on an ID) and keep it safe with its recovery code. Restoring from a kit is not built yet: it is coming as a terminal step. Keep your master code safe as well.
 
 ## The project
 
